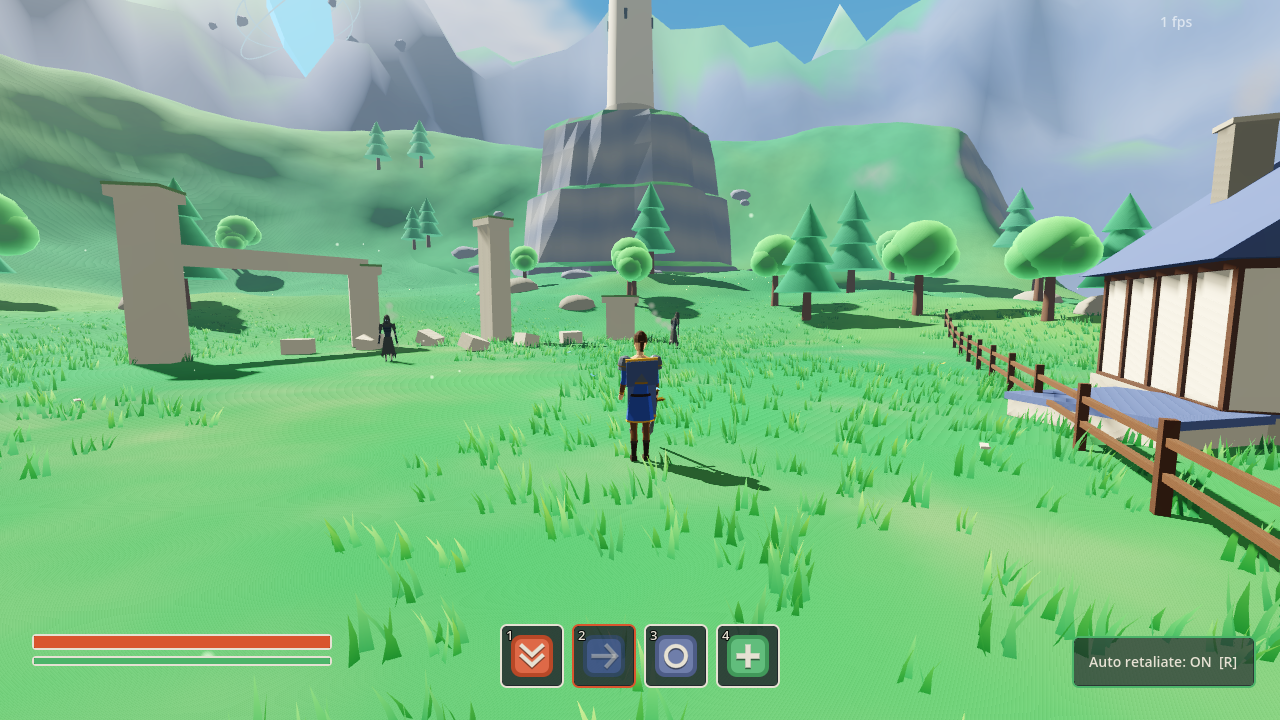
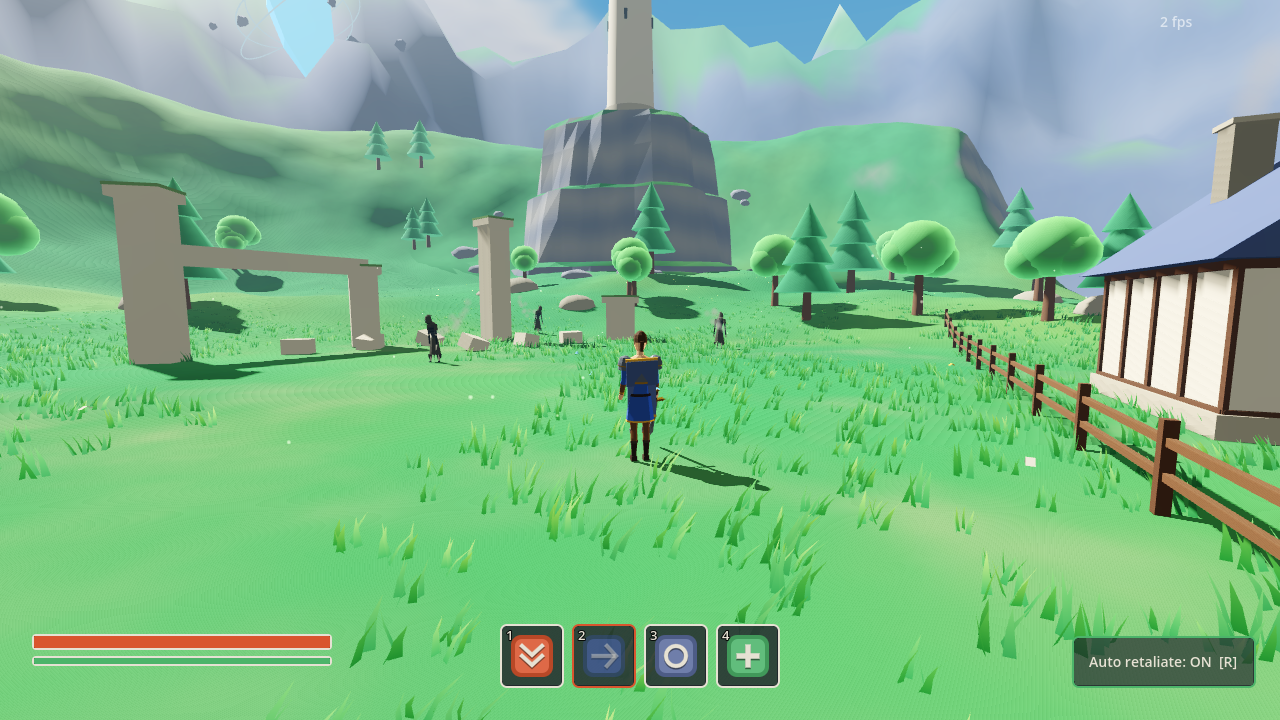
Feedback: springen eruit (automatisch opstappen, Spatie = ontwijken), dorpelingen met humor
Claude-Session: https://claude.ai/code/session_01X1Hshh3gfRJFNSyViJVPYM

diff --git a/CHANGELOG.md b/CHANGELOG.md
@@ -11,12 +11,14 @@ Feedback van de eigenaar verwerkt: besturing in RuneScape-stijl, haperingen bij 
 - **Prestaties:** effecten zitten in pools en materialen worden bij de start voorverwarmd (geen shadercompilatie midden in een gevecht). Treffer-flits op vijanden alleen actief tijdens de flits. Hitstop vertraagt tot 20% in plaats van bijna te bevriezen. Bomen in 5 MultiMeshes, dorp in 2 draw calls.
 - **Lore** herschreven: Aldmere gezongen door zeven Ascendanten, zes facties met elk een eigen gelijk, een gewiste zevende god, de speler als neutrale Wachter die moet kiezen.
 - **Wereld:** de vallei loopt uit op een baai met zee, golven, schuimranden en strand. Vissersdorp Zoutwijk (Havenhythe als richting): vakwerkhuizen op stenen voeten, steigers met lantaarn, deinende boten, rook, vissenrekken, meeuwen, drie dorpelingen die rondlopen. Stuifmeel en vlinders overdag, vuurvliegjes 's nachts. Een zwevende scherf van de Kroon met runenringen boven de vallei.
+- **Geen springen meer:** paste niet bij klik-om-te-lopen. De held stapt zelf over randen tot 0,5 m. Spatie is nu ontwijken. Springblokken bij de arena vervangen door een trap naar een uitkijkplatform.
+- **Humor:** dorpelingen zeggen droge zinnen als je dichtbij staat. Het verhaal blijft episch.
 - **Personages:** held, dorpelingen en Leeghulzen opnieuw opgebouwd als gefacetteerde low-poly lichamen met echte verhoudingen (naar de anatomie-referentie). Held met kuras met goudrand, gelaagde schouderstukken, tabard, cape met franje en een sierlijk zwaard met gloeiende steen. Leeghulzen mager en gebogen, met gescheurde gewaden en klauwen.
 
 **Feedback verwerkt**
 - `feedback/` (tekstbestand 1): framedrops, RuneScape-camera met zoom, klikgevecht met skills, lore met goden en facties, omgeving statisch en niet mooi, Havenhythe. Zie `feedback/verwerkt/2026-11-13-feedback.md`.
 - `feedback/` (beelden): anatomie, sfeer, uitrusting. Zie `feedback/verwerkt/2026-11-13-beelden.md`.
-- `feedback/` (tekstbestand 2): auto retaliate. Zie `feedback/verwerkt/2026-11-13-auto-retaliate.md`.
+- `feedback/` (tekstbestand 2): auto retaliate, springen eruit, humor toegestaan. Zie `feedback/verwerkt/2026-11-13-auto-retaliate.md`.
 
 **Speel het:** https://m4rk4ever-lang.github.io/Fantasy-RPG/
 
@@ -27,6 +29,7 @@ Feedback van de eigenaar verwerkt: besturing in RuneScape-stijl, haperingen bij 
 ![Held en Leeghuls](docs/screenshots/2026-11-13b/04_held.png)
 ![Avond in Zoutwijk](docs/screenshots/2026-11-13b/05_avond.png)
 ![Zoutwijk](docs/screenshots/2026-11-13b/06_dorp.png)
+![Dorpeling met een grap](docs/screenshots/2026-11-13b/07_dorpeling.png)
 
 **Zelfcontrole**
 - Diepte: ja, sterk in het dorpsbeeld (steiger, huizen, heuvels, bergen). | Landmark: Veilspire en de zwevende kroonscherf. | Palet: ja. Koningsblauwe daken, steenkleurige muren, hemelblauw water. Gras van dichtbij is nog wat fel. | Game of demo: game. Het dorp en de avond zien eruit als een spel. | Zwakste deel: het gras dichtbij (fel en egaal) en de bergring overdag.
@@ -38,6 +41,8 @@ Feedback van de eigenaar verwerkt: besturing in RuneScape-stijl, haperingen bij 
 - Onder **Grafische stijl**: "Personages als gefacetteerde low-poly lichamen met echte verhoudingen."
 - Een regel voor de camera: "Camera draait niet zelf mee, de speler draait en zoomt (RuneScape)."
 - Onder **Sfeer per gebied** eventueel de kust en Havenhythe als referentie toevoegen.
+- Onder **Toon**: "Serieus en episch, met af en toe een grap" in plaats van "weinig humor".
+- Onder **Gevecht**: "Geen springen; de held stapt zelf over kleine randen."
 
 **Problemen en beslissingen**
 - Gevecht in RuneScape-stijl botst met SMAAK.md ("combo's, veel beweging"). Gevraagd aan de eigenaar en gekozen voor hybride: klik en skills, met behoud van ontwijken en combo's.

diff --git a/docs/DESIGN.md b/docs/DESIGN.md
@@ -41,7 +41,7 @@ Richting (feedback eigenaar 13-11-2026): een wereld geschapen door goden en hoge
 - Vergeten is letterlijk: plekken, namen en NPC's kunnen uit de wereld verdwijnen als de Sluier wint. Het Archief kan ze terughalen.
 - Geen goed-tegen-kwaad. Elke factie heeft gelijk vanuit haar eigen stem.
 
-Toon: serieus en episch, weinig humor.
+Toon: serieus en episch, met af en toe een grap (feedback eigenaar 13-11-2026). Humor zit in de mensen, niet in de goden: dorpelingen en reizigers mogen droog zijn, de grote verhaallijn blijft ernstig.
 
 ### Eerste gebied: Wachtersvallei en Zoutwijk
 
@@ -68,8 +68,7 @@ Het hoofdpersonage draagt koningsblauw (tunic), leisteenblauw (cape) en licht st
 | Camera draaien | middelste muisknop slepen of pijltjes | rechterstick |
 | Zoomen | scrollwiel of + en - | - |
 | Sprinten | Shift | linkerstick indrukken |
-| Springen | Spatie | A |
-| Ontwijken (dash) | rechtermuis / Alt / C | B |
+| Ontwijken (dash) | Spatie / rechtermuis / Alt / C | B of A |
 | Dichtstbijzijnde doelwit | Q | rechterstick indrukken |
 | Pauze | Esc / P | Start |
 
@@ -94,6 +93,8 @@ Gevecht: snel en vloeiend, combo's, ontwijken kan altijd en annuleert aanvallen.
 - **Vijand:** `Hollow` (Leeghuls), state machine idle, chase, windup, attack, recover, stagger, dead. Elke treffer onderbreekt de vijand (vergevingsgezind). Duidelijke telegraph: ogen lichten op, arm gaat omhoog.
 - **Doelwit en klikken:** `ClickController` kiest monsters onder de muis (vergevingsgezind, 0,9 m rond de muisstraal) of loopt naar een aangeklikt punt. `LockOn` toont marker, rode ring en HUD-balk; Q wisselt naar het dichtstbijzijnde monster. De camera draait nooit zelf (RuneScape-stijl).
 - **Skills:** `PlayerCombat.SKILLS`: Cleave (1), Surge Strike (2, dash naar doelwit met onkwetsbaarheid), Whirlwind (3), Second Wind (4, heal). Cooldowns in de skillbalk (`SkillBar`).
+- **Geen springen** (feedback 13-11-2026): springen paste niet bij klik-om-te-lopen. De held stapt zelf over randen tot 0,5 m (`Player._try_step`). Spatie is nu ontwijken. Trappen en steigers zijn op lopen ontworpen.
+- **Dorpelingen praten:** korte zinnen boven hun hoofd als de held dichtbij staat (`Villager.lines`), met droge humor.
 - **Auto retaliate:** standaard aan (R of knop rechtsonder). Een stilstaande held zonder opdracht valt het monster aan dat hem raakt.
 - **Personages:** `HeroModel` bouwt held en dorpelingen uit `MeshKit.loft`: elliptische ringen per lichaamsdeel, gefacetteerd (flat shading), kleding per ringband via vertex colors, harnas als aparte metalen schil. Per bewegend lichaamsdeel één stof- en één metaal-mesh. `armored` en `with_sword` schakelen harnas, cape en zwaard. De Leeghuls gebruikt dezelfde techniek met magere verhoudingen.
 - **MeshKit:** samengevoegde meshes met vertex colors (box, gable, cylinder, loft, wedge). Het hele dorp is twee draw calls (hout/steen en gloeiende ramen).

diff --git a/feedback/verwerkt/2026-11-13-auto-retaliate.md b/feedback/verwerkt/2026-11-13-auto-retaliate.md
@@ -5,3 +5,8 @@ Auto retaliate aan / uit kunnen zetten zodat je ten minste standaard kan reagere
 ## Verwerkt op 13-11-2026 (bouwagent)
 
 Auto retaliate zit erin, standaard **aan**. Aan of uit met **R**, de knop rechtsonder in beeld, of D-pad omhoog. Staat hij aan en val je stil (geen WASD, geen klikopdracht), dan pakt de held het monster dat hem raakt als doelwit en vecht terug. Ben je zelf aan het lopen of heb je al een doelwit, dan blijft jouw keuze staan.
+
+## Aanvullingen in hetzelfde bestand, verwerkt op 13-11-2026
+
+- **Springen werkt niet goed met klik-om-te-lopen:** springen is eruit. De held stapt zelf over randen tot 0,5 m (trappen, steigers, stenen), ook als je met de muis klikt. De oude springblokken bij de arena zijn vervangen door een stenen trap naar een uitkijkplatform. **Spatie is nu ontwijken.**
+- **Er mag humor in:** dorpelingen zeggen nu korte, droge zinnen als je bij ze staat (bijvoorbeeld "Back in my day the Veil only took your keys."). Het grote verhaal blijft episch. Vastgelegd in `docs/DESIGN.md` onder Toon. Voorstel voor `SMAAK.md` staat in de changelog.

diff --git a/README.md b/README.md
@@ -16,8 +16,7 @@ De Kroon van Zeven Hemelen is gebroken. Uit de scheuren in de lucht kruipt de Sl
 | Camera draaien | middelste muisknop slepen of pijltjes | rechterstick |
 | Zoomen | scrollwiel of + en - | - |
 | Sprinten | Shift | linkerstick indrukken |
-| Springen | Spatie | A |
-| Ontwijken | rechtermuis / Alt / C | B |
+| Ontwijken | Spatie / rechtermuis / Alt / C | B of A |
 | Dichtstbijzijnde doelwit | Q | rechterstick indrukken |
 | Pauze | Esc / P | Start |
 
